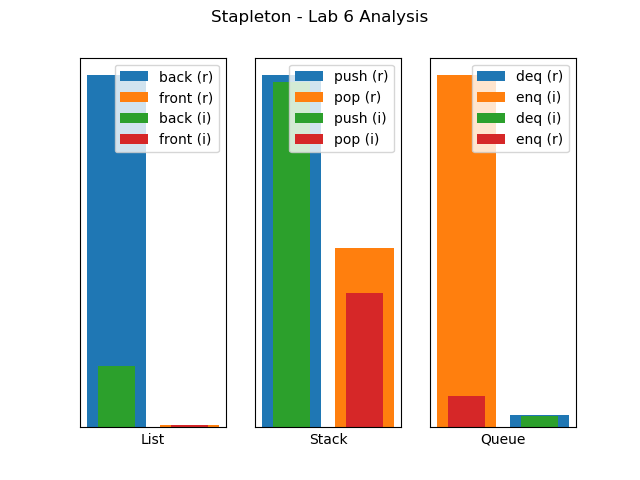
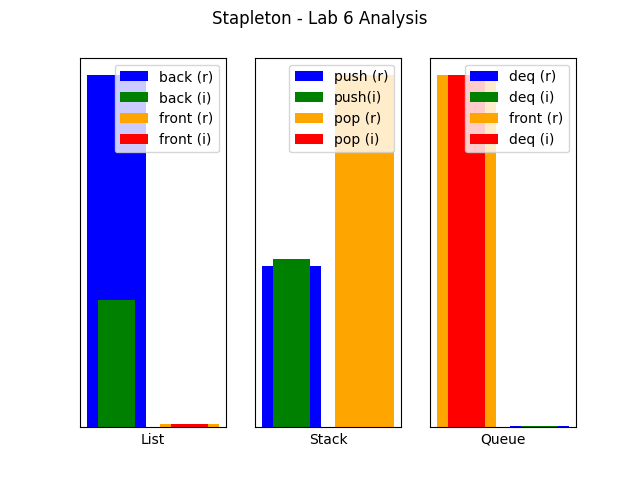
updated

diff --git a/a_recursive_list.py b/a_recursive_list.py
@@ -33,32 +33,107 @@ class List:
 
 
 def initialize() -> List:
+    return List()
     raise NotImplementedError("List.initialize() not defined")
 
 
 def isEmpty(data: List) -> bool:
+    return list.head == None
     raise NotImplementedError("List.isEmpty() not defined")
 
 
 def addAtIndex(data: List, index: int, value: int) -> List:
+    def helper(v: Node, index: int, value: int, i):
+        if (i + 1) == index:
+            new_node = (value, v.next)
+            v.next = new_node
+            return data
+        elif i > index:
+            raise IndexError('oops')
+        else:
+            return helper(v.next, index, i + 1, value)
+        
+    if data.first is None:
+        data.first = Node(value, None)
+        return data
+    elif index < 0 or index >= len(data):
+        raise IndexError('oops')
+    else:
+        return helper(data.first, index, value, i = 0)
     raise NotImplementedError("List.addAtIndex() not defined")
 
 
 def removeAtIndex(data: List, index: int) -> tuple[Node, List]:
+    def helper(v: Node, index: int, i: int ):
+        if (i + 1) == index:
+            target: Node = v.next
+            v.next = target.next
+            return target, data
+        elif i > index:
+            raise IndexError('oops')
+        else:
+            return helper(v.next, index, i + 1)
+        
+    if isEmpty(data):
+        return None
+    elif index < 0 or index >= len(data):
+        raise IndexError('oops')
+    else:
+        return helper(data.first, index, i = 0)
     raise NotImplementedError("List.removeAtIndex() not defined")
 
 
 def addToFront(data: List, value: int) -> List:
-    raise NotImplementedError("List.addToFront() not defined")
+    if data.first is None:
+        new_node = (value, None)
+        data.first = new_node
+        return data
+    else:
+        new_node = Node(value, data.first)
+        data.first = new_node
+        return data
+        raise NotImplementedError("List.addToFront() not defined")
 
 
 def addToBack(data: List, value: int) -> List:
+    def helper(v: Node, value: int):
+        if v.next is None:
+            new_node = Node(value, None)
+            v.next = new_node
+            return data
+        else:
+            return helper(v.next, value)
+    if data.first is None:
+        new_node = Node(value, None)
+        data.first = new_node
+        return data
+    else:
+        return helper(data.first, value)
     raise NotImplementedError("List.addToBack() not defined")
+    
+        
+    
 
 
 def getElementAtIndex(data: List, index: int) -> Node:
+    def helper(v: Node, index: int, i: int):
+        if i == index:
+            return v
+        elif i > index:
+            raise IndexError('oops')
+        else:
+            return helper(v.next, index, i + 1)
+        
+    if isEmpty(data):
+        return None
+    elif index < 0 or index >= len(data):
+        raise IndexError('oops')
+    else:
+        return helper(data.first, index, i = 0)
     raise NotImplementedError("List.getElementAtIndex() not defined")
 
 
 def clear(data: List) -> List:
+    data.first = None
+    return data
     raise NotImplementedError("List.clear() not defined")

diff --git a/d_analysis.py b/d_analysis.py
@@ -16,7 +16,7 @@ import c_iterative_queue as Queue_iter
 import c_recursive_queue as Queue_rec
 
 # PLOT CONFIG
-plt.suptitle('Stapleton - Lab 6 Analysis')
+plt.suptitle('Peregrin - Lab 6 Analysis')
 
 # CONSTANTS
 N_TRIALS = 100  # TODO run on 20 trials
@@ -314,14 +314,37 @@ for experiment in RESULTS:
 
 # YOUR CODE GOES BELOW
 ## LIST
-
+plt.subplot(1, 3, 1)
+plt.xlabel('List')
+plt.yticks([])
+plt.xticks([])
+plt.bar(x = 0, height = RESULTS['back  (r)'], color = 'blue', label = 'back (r)')
+plt.bar(x = 0, height = RESULTS['back  (i)'], width = 0.5, color = 'green', label = 'back (i)')
+plt.bar(x = 1, height = RESULTS['front (r)'], color = 'orange', label = 'front (r)')
+plt.bar(x = 1, height = RESULTS['front (i)'], width = 0.5, color = 'red', label = 'front (i)')
+plt.legend()
 
 ## STACK
-
-
+plt.subplot(1, 3, 2)
+plt.xlabel('Stack')
+plt.yticks([])
+plt.xticks([])
+plt.bar(x = 0, height = RESULTS['push  (r)'], color = 'blue', label = 'push (r)')
+plt.bar(x = 0, height = RESULTS['push  (i)'], width = 0.5, color = 'green', label = 'push(i)')
+plt.bar(x = 1, height = RESULTS['pop   (r)'], color = 'orange', label = 'pop (r)')
+plt.bar(x = 1, height = RESULTS['pop   (i)'], width = 0.5, color = 'red', label = 'pop (i)')
+plt.legend()
 ## QUEUE
-
+plt.subplot(1, 3, 3)
+plt.xlabel('Queue')
+plt.yticks([])
+plt.xticks([])
+plt.bar(x = 1, height = RESULTS['deq   (r)'], color = 'blue', label = 'deq (r)')
+plt.bar(x = 1, height = RESULTS['deq   (i)'], width = 0.5, color = 'green', label = 'deq (i)')
+plt.bar(x = 0, height = RESULTS['enq   (r)'], color = 'orange', label = 'enq (r)')
+plt.bar(x = 0, height = RESULTS['enq   (i)'], width = 0.5, color = 'red', label = 'enq (i)')
+plt.legend()
 
 ## SAVE FIGURE
-plt.savefig('./figs/stapleton_lab6_analysis.png')
+plt.savefig('./figs/peregrin2_lab6_analysis.png')
 plt.show()

diff --git a/c_recursive_queue.py b/c_recursive_queue.py
@@ -33,24 +33,60 @@ class Queue:
 
 
 def initialize() -> Queue:
+    return Queue()
     raise NotImplementedError("Queue.initialize() not defined")
 
 
 def isEmpty(data: Queue) -> bool:
+    return data.first == None
     raise NotImplementedError("Queue.isEmpty() not defined")
 
 
 def enqueue(data: Queue, value: int) -> Queue:
+    def helper(v: Node, value: int):
+        if v.next == None:
+            new_node = Node(value, None)
+            v.next = new_node
+            return data
+        else:
+            return helper(v.next, value)
+        
+    if data.first is None:
+        new_node = Node(value, None)
+        data.first = new_node
+        return data
+    else:
+        return helper(data.first, value)
+    # if data.first is None:
+    #     new_node = Node(value, None)
+    #     data.first = new_node
+    #     data.last = data.first
+    #     return data  
+    # else:
+    #     new_node = Node(value, None)
+    #     last = data.last
+    #     data.last = new_node
+    #     last.next = data.last
+    #     return data
     raise NotImplementedError("Queue.enqueue() not defined")
 
 
 def dequeue(data: Queue) -> tuple[Node, Queue]:
+    if isEmpty(data):
+        return None, None
+    else:
+        target: Node = data.first
+        data.first = target.next
+        return target, data
     raise NotImplementedError("Queue.dequeue() not defined")
 
 
 def peek(data: Queue) -> Node:
+    return data.first.value
     raise NotImplementedError("Queue.peek() not defined")
 
 
 def clear(data: Queue) -> Queue:
+    data.first = None
+    return data
     raise NotImplementedError("Queue.clear() not defined")

diff --git a/b_recursive_stack.py b/b_recursive_stack.py
@@ -33,24 +33,50 @@ class Stack:
 
 
 def initialize() -> Stack:
+    return Stack()
     raise NotImplementedError("Stack.initialize() not defined")
 
 
 def isEmpty(data: Stack) -> bool:
+    return data.first == None
     raise NotImplementedError("Stack.isEmpty() not defined")
 
 
 def push(data: Stack, value: int) -> Stack:
-    raise NotImplementedError("Stack.push() not defined")
+    if data.first is None:
+        new_node = Node(value, None)
+        data.first = new_node
+        return data
+    else:
+        previous = data.first
+        new_node = Node(value, None)
+        data.first = new_node
+        data.first.next = previous
+        return data
+        raise NotImplementedError("Stack.push() not defined")
 
 
 def pop(data: Stack) -> tuple[Node, Stack]:
+    def helper(v: Node):
+        if v.next is not None:
+            target: Node = v
+            v = v.next
+            return target.value, data
+        else:
+            return helper(v.next)
+    if isEmpty(data):
+        return None
+    else:
+        return helper(data.first)
     raise NotImplementedError("Stack.pop() not defined")
 
 
 def peek(data: Stack) -> Node:
+    return data.first.value
     raise NotImplementedError("Stack.peek() not defined")
 
 
 def clear(data: Stack) -> Stack:
+    data.first == None
+    return data
     raise NotImplementedError("Stack.clear() not defined")
